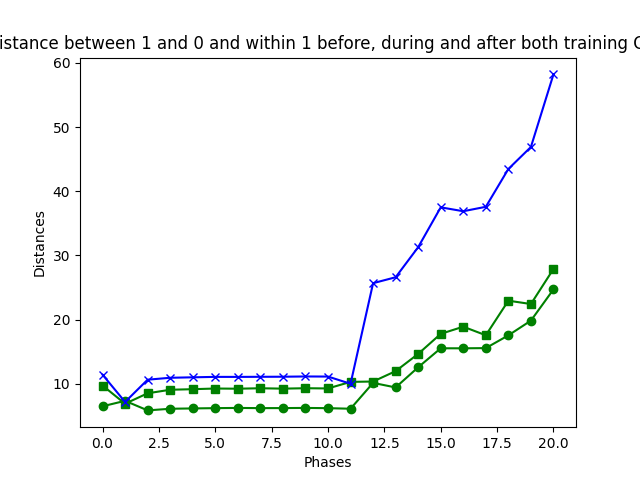
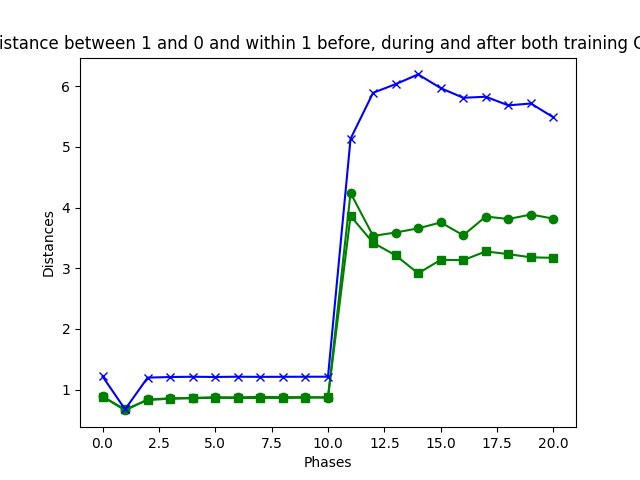
Update

diff --git a/main.py b/main.py
@@ -2,7 +2,6 @@
 import neural_networks
 from torch import optim
 import torch.nn as nn
-from plotting_X import *
 from sampling import *
 
 
@@ -40,13 +39,10 @@ if __name__ == "__main__":
         outputs_list = []
         for batch in batches:
             optimizer.zero_grad()
-            #print(batch.shape)
 
             outputs = model(batch)
             outputs_list.append(outputs)
 
-
-            #print(outputs.shape)
 
             loss = loss_fn(outputs, batch)
             loss.backward()
@@ -62,29 +58,28 @@ if __name__ == "__main__":
         print(f"Epoch {epoch+1}, Loss: {loss.item()}")
 
 
+
     model_2 = neural_networks.LastLayer(model)  
 
     model_2.train()
     
     loss_fn_2 = nn.CrossEntropyLoss()
     optimizer_2 = optim.Adam(model.parameters(), lr=0.01)
+    
+
+
 
     print("\nSupervised part!")
 
     ###################################################################################################
 
     for epoch in range(10):
-        outputs_supervised_list = []
+        outputs_autoencoder_list = []
         for i in range(len(batches)):
             optimizer_2.zero_grad()
 
-            #print(batches[i].shape)
             outputs_supervised = model_2(batches[i])
-
-            outputs_supervised_list.append(outputs_supervised)
-
-            #print(outputs_supervised.shape)
-
+            outputs_autoencoder_list.append(model_2.autoencoder_output)
 
 
             loss = loss_fn_2(outputs_supervised, batches_of_labels[i])
@@ -97,9 +92,11 @@ if __name__ == "__main__":
 
         print(f"Epoch {epoch + 1}, Loss: {loss.item()}")
 
-        pair_avg_distances[(1, 1)] = pair_avg_distances[(1, 1)] + [sampled_avg_distance((1, 1), torch.cat(outputs_supervised_list, dim=0), y)]
-        pair_avg_distances[(1, 0)] = pair_avg_distances[(1, 0)] + [sampled_avg_distance((1, 0), torch.cat(outputs_supervised_list, dim=0), y)]
-        pair_avg_distances[(0, 0)] = pair_avg_distances[(0, 0)] + [sampled_avg_distance((0, 0), torch.cat(outputs_supervised_list, dim=0), y)]
+        print(model_2.autoencoder_output.shape)
+
+        pair_avg_distances[(1, 1)] = pair_avg_distances[(1, 1)] + [sampled_avg_distance((1, 1), torch.cat(outputs_autoencoder_list, dim=0), y)]
+        pair_avg_distances[(1, 0)] = pair_avg_distances[(1, 0)] + [sampled_avg_distance((1, 0), torch.cat(outputs_autoencoder_list, dim=0), y)]
+        pair_avg_distances[(0, 0)] = pair_avg_distances[(0, 0)] + [sampled_avg_distance((0, 0), torch.cat(outputs_autoencoder_list, dim=0), y)]
 
     within_1 = pair_avg_distances[(1,1)]
     within_0 = pair_avg_distances[(0, 0)]
@@ -132,4 +129,3 @@ if __name__ == "__main__":
     print("\nAccuracy = ")
     print(acc * 100)
     
-

diff --git a/sampling.py b/sampling.py
@@ -1,6 +1,6 @@
 import matplotlib.pyplot as plt
 import random
-import torch
+import torch.nn.functional
 import create_dataset
 
 def sampled_avg_distance(pair, X, y):
@@ -21,11 +21,19 @@ def sampled_avg_distance(pair, X, y):
         index1 = random.randint(0, 400)
         index2 = random.randint(0, 400)
 
+        mat_1 = X_first[index1]
+        mat_2 = X_second[index2]
 
+        mat_1_flattened = mat_1.view(mat_1.size(0), -1)
+        mat_2_flattened = mat_2.view(mat_2.size(0), -1)
 
-        distances.append(abs(torch.norm(X_first[index1]- X_second[index2])))
+        mat_1_flattened_normalized = torch.nn.functional.normalize(mat_1_flattened, p=2, dim=1)
+        mat_2_flattened_normalized = torch.nn.functional.normalize(mat_2_flattened, p=2, dim=1)
+
+        distances.append(torch.norm(mat_1_flattened_normalized - mat_2_flattened_normalized))
 
     return (sum(distances) / len(distances)).item()
+
 
 #I basically find the Euclidean distance between two random datapoints from these two bigger matrices.
 

diff --git a/plotting_X.py b/plotting_X.py
@@ -1,5 +1,5 @@
 import matplotlib.pyplot as plt
-import pca
+import tnse
 import create_dataset
 import torch
 
@@ -32,11 +32,11 @@ def filter(X, y, list_digits):
 
 
 def plot(X, y, epoch, is_sup):
-    X_pca = pca.pca_of_two(X.view(X.shape[0], -1).detach().numpy())
+    X_tnse = tnse.of_two(X.view(X.shape[0], -1).detach().numpy())
     y_np = y.numpy()
 
-    pc1 = X_pca[:, 0]
-    pc2 = X_pca[:, 1]
+    pc1 = X_tnse[:, 0]
+    pc2 = X_tnse[:, 1]
 
 
     for i in range(y.shape[0]):
@@ -58,9 +58,6 @@ def plot(X, y, epoch, is_sup):
 
 
 if __name__ == '__main__':
-    '''
     X,y = (filter(create_dataset.get_inputs(), create_dataset.get_labels(), [0, 1, 4,9]))
 
-    #plot(X.reshape(X.shape[0], 784), y, -1)
-    
-    '''
+    plot(X.reshape(X.shape[0], 784), y, -1, "Pre-training")

diff --git a/neural_networks.py b/neural_networks.py
@@ -51,12 +51,15 @@ class LastLayer(nn.Module):
     def __init__(self, autoencoder):
         super(LastLayer, self).__init__()
 
+        self.autoencoder_output = None
         self.autoencoder = autoencoder.encoder
 
         self.supervised_part = nn.Sequential(nn.Linear(128, 10))
 
     def forward(self, x):
         x = self.autoencoder(x)
+
+        self.autoencoder_output = x
 
         x = x.view(x.size(0), -1)
 

diff --git a/tnse.py b/tnse.py
@@ -1,0 +1,6 @@
+from sklearn.manifold import TSNE
+
+
+def of_two(matrix):
+    tsne = TSNE(n_components=2)
+    return tsne.fit_transform(matrix)
